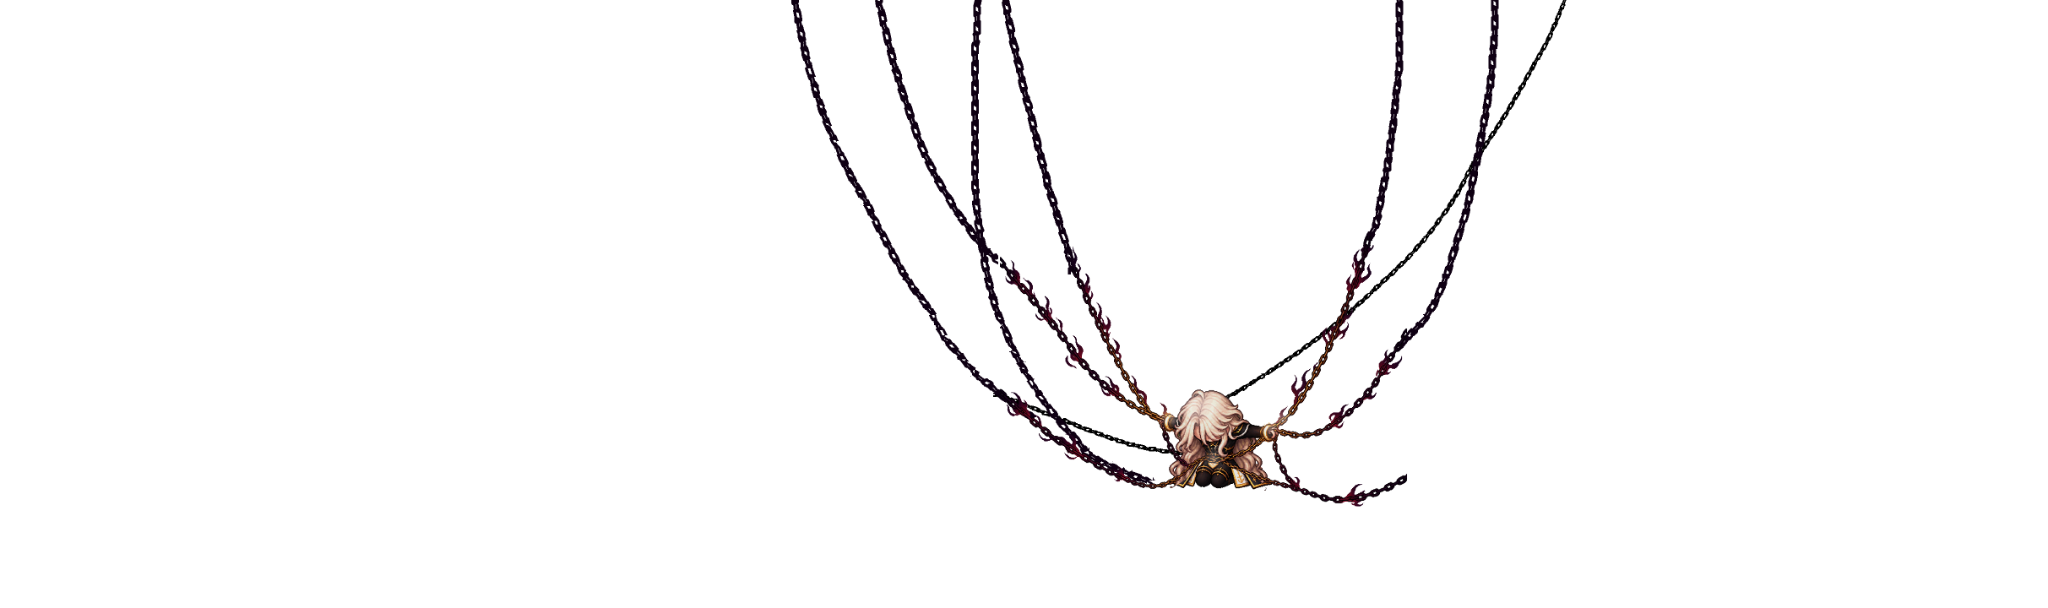
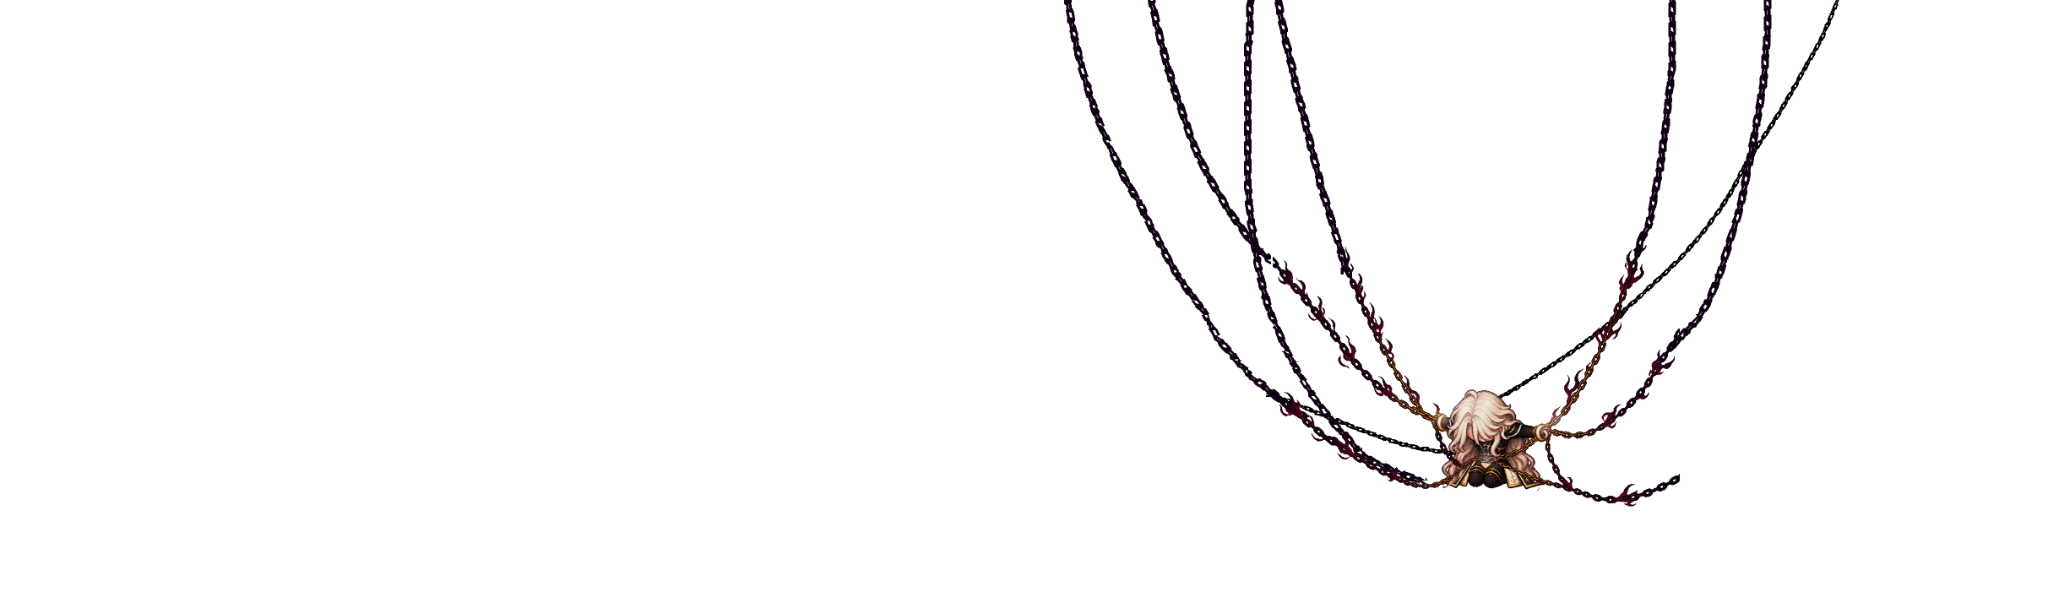
dungeon7 fix

Changed region(s): [[0.4062, 0.0, 0.875, 0.8438], [0.375, 0.0, 0.4375, 0.2188], [0.7188, 0.0, 0.75, 0.2812]]

diff --git a/src/components/Dungeon7RescueStory.tsx b/src/components/Dungeon7RescueStory.tsx
@@ -10,6 +10,20 @@ import aronStanding from "../assets/story/npcs/chapter2/aron/standing_R.png";
 
 const base = `${import.meta.env.BASE_URL}assets/dungeon7/`;
 const hitSfx = `${import.meta.env.BASE_URL}assets/audio/hit-sfx.mp3`;
+export const DUNGEON7_PRISON_PARTY_LAYOUT = {
+  displayScale: 0.5,
+  groundBottomPercent: 13,
+  initialLeftPercent: [8, 13, 18, 23],
+  relocatedLeftPercent: [39, 44, 49, 54],
+} as const;
+export type Dungeon7RescuePhase = "arrival" | "party" | "left" | "pan" | "center" | "hits" | "black" | "fallen";
+export function getDungeon7PartyVisibility(phase: Dungeon7RescuePhase) {
+  return {
+    initial: phase === "arrival" || phase === "party" || phase === "left" || phase === "pan",
+    relocated: phase === "center" || phase === "hits",
+  };
+}
+const partyStanding = [lunaStanding, theoStanding, kappStanding, aronStanding] as const;
 const actors = {
   luna: createChapter2Actor("luna", "루나", "정찰 담당", "#ff8b72"), theo: createChapter2Actor("theo", "테오", "보급 담당", "#7fc8ff"), aron: createChapter2Actor("aron", "아론", "지휘관", "#d9b6ff"), kapp: createChapter2Actor("kapp", "카프", "부지휘관", "#ffcf80"), deneb: createChapter2Actor("deneb", "데네브", "잊혀진 지휘관", "#bfe7ff"),
 };
@@ -27,7 +41,7 @@ const FALLEN = sequence("d7-rescue-fallen", [n("r28", "쇠사슬에서 해방된
 
 type Props = { playerName: string; onComplete: () => void };
 export function Dungeon7RescueStory({ playerName, onComplete }: Props) {
-  const [phase, setPhase] = useState<"arrival" | "party" | "left" | "pan" | "center" | "hits" | "black" | "fallen">("arrival");
+  const [phase, setPhase] = useState<Dungeon7RescuePhase>("arrival");
   const [hitStep, setHitStep] = useState(0); const done = useRef(false); const strikeBusy = useRef(false); const timers = useRef<number[]>([]);
   const finish = () => { if (done.current) return; done.current = true; timers.current.forEach(clearTimeout); onComplete(); };
   useEffect(() => { timers.current.push(window.setTimeout(() => setPhase("party"), 2000)); timers.current.push(window.setTimeout(() => setPhase("left"), 4500)); return () => timers.current.forEach(clearTimeout); }, []);
@@ -45,11 +59,12 @@ export function Dungeon7RescueStory({ playerName, onComplete }: Props) {
       }, 400));
     }
   };
-  const positions = phase === "arrival" || phase === "party" || phase === "left" ? ["8%", "15%", "22%", "29%"] : ["37%", "44%", "51%", "58%"];
+  const partyVisibility = getDungeon7PartyVisibility(phase);
   return <div className={`dungeon7-rescue phase-${phase} ${phase === "pan" || phase === "center" || phase === "hits" ? "is-centered" : ""}`}>
     <div className="dungeon7-prison-camera"><div className="dungeon7-prison-map">
       <img className="d7-layer d7-background" src={`${base}prison-background.png`} alt="" /><img className="d7-layer d7-foreground" src={`${base}prison-foreground.png`} alt="" /><img key={hitStep} className={`d7-layer d7-captive ${hitStep === 1 || hitStep === 3 || hitStep === 5 ? "is-hit" : ""}`} src={`${base}captive-deneb.png`} alt="붙잡힌 데네브" />
-      <div className="d7-party">{[lunaStanding,theoStanding,kappStanding,aronStanding].map((src,i)=><div className="d7-party-member" style={{ left: positions[i] }} key={src}><img src={src} alt="" />{i===0&&phase==="left"&&<span className="d7-exclamation" style={{ backgroundImage: `url(${import.meta.env.BASE_URL}assets/story/chapter2/intro/exclamation-sheet.png)` }} />}</div>)}</div>
+      {partyVisibility.initial && <div className="d7-party d7-party-initial">{partyStanding.map((src, i) => <div className="d7-party-member" style={{ left: `${DUNGEON7_PRISON_PARTY_LAYOUT.initialLeftPercent[i]}%` }} key={src}><img src={src} alt="" />{i === 0 && phase === "left" && <span className="d7-exclamation" style={{ backgroundImage: `url(${import.meta.env.BASE_URL}assets/story/chapter2/intro/exclamation-sheet.png)` }} />}</div>)}</div>}
+      {partyVisibility.relocated && <div className="d7-party d7-party-relocated">{partyStanding.map((src, i) => <div className="d7-party-member" style={{ left: `${DUNGEON7_PRISON_PARTY_LAYOUT.relocatedLeftPercent[i]}%` }} key={src}><img src={src} alt="" /></div>)}</div>}
       <img className="d7-layer d7-ground" src={`${base}prison-ground.png`} alt="" />
     </div></div>
     <button className="story-skip-button" onClick={finish}>건너뛰기</button>

diff --git a/src/dungeon7Chapter2Checks.ts b/src/dungeon7Chapter2Checks.ts
@@ -5,6 +5,9 @@ import { MONSTER_VISUAL_DEFINITIONS } from "./game/monster/monsterDefinitions";
 import { ITEM_DEFINITION_REGISTRY } from "./game/inventory/itemDefinitions";
 import { createDebugFloorJumpState } from "./debug/debugFloorJump";
 import { getItemQuantity } from "./game/inventory/inventoryState";
+import { DUNGEON_FLOOR_TITLES } from "./data/DungeonFloorTitles";
+import { FLOOR_DEFINITIONS } from "./game/floor/floorDefinitions";
+import { DUNGEON7_PRISON_PARTY_LAYOUT, getDungeon7PartyVisibility } from "./components/Dungeon7RescueStory";
 
 function check(condition: unknown, message: string): asserts condition { if (!condition) throw new Error(`[Dungeon7 check] ${message}`); }
 const dialogue = (story: { scenes: ReadonlyArray<{ steps: ReadonlyArray<{ type: string }> }> }) => story.scenes.flatMap((scene) => scene.steps).filter((step) => step.type === "dialogue");
@@ -12,6 +15,8 @@ const dialogue = (story: { scenes: ReadonlyArray<{ steps: ReadonlyArray<{ type: 
 export function runDungeon7Chapter2Checks() {
   const quest = QUEST_DEFINITIONS.find((entry) => entry.id === "quest-floor-7-goryeo-founding");
   check(quest?.title === "개항 전후의 조선(1)", "title");
+  check(FLOOR_DEFINITIONS.find((floor) => floor.id === "floor-7")?.title === "7층", "floor 7 entrance label");
+  check(DUNGEON_FLOOR_TITLES.find((floor) => floor.floorId === "floor-7")?.subtitle === "개항 전후의 조선(1)", "floor 7 internal title");
   check(quest.giverNpcId === "kaiden" && quest.turnInNpcId === "denebCommander", "giver and turn-in");
   check(NPC_BY_ID.denebCommander.baseCampDisplayRole === "잊혀진 지휘관", "Deneb NPC definition");
   check(DUNGEON7_ENTRY_STORY.dialogueSkip && dialogue(DUNGEON7_ENTRY_STORY).length === 5, "entry story");
@@ -24,4 +29,10 @@ export function runDungeon7Chapter2Checks() {
   const debug8 = createDebugFloorJumpState("floor-8");
   check(getItemQuantity(debug8.inventoryState, "accessory-gungye-eyepatch") === 1, "Dungeon8 debug rare reward");
   check(Boolean(debug8.achievementReceived["achievement-floor-7-rare-reward"]), "Dungeon8 debug achievement");
+  check(DUNGEON7_PRISON_PARTY_LAYOUT.displayScale === 0.5, "prison party scale");
+  check(DUNGEON7_PRISON_PARTY_LAYOUT.initialLeftPercent.join(",") === "8,13,18,23", "initial party world positions");
+  check(DUNGEON7_PRISON_PARTY_LAYOUT.relocatedLeftPercent.join(",") === "39,44,49,54", "relocated party order and positions");
+  check(Math.max(...DUNGEON7_PRISON_PARTY_LAYOUT.relocatedLeftPercent) < 58, "relocated party remains left of captive Deneb");
+  check(getDungeon7PartyVisibility("pan").initial && !getDungeon7PartyVisibility("pan").relocated, "camera pan keeps only the initial world party");
+  check(!getDungeon7PartyVisibility("center").initial && getDungeon7PartyVisibility("center").relocated, "camera completion swaps to only the relocated party");
 }

diff --git a/src/game/npc/npcChecks.ts b/src/game/npc/npcChecks.ts
@@ -9,6 +9,7 @@ import { resolveNpcStorySequence } from "./npcStoryResolver";
 import type { NpcId } from "./npcTypes";
 import {
   BASE_CAMP_NPC_DISPLAY_SCALE,
+  BASE_CAMP_REDUCED_NPC_DISPLAY_SCALE,
   BASE_CAMP_NPC_SLOT_ASSIGNMENTS,
   BASE_CAMP_NPC_SLOTS,
   getBaseCampNpcFocusTarget,
@@ -58,7 +59,7 @@ export function runNpcChecks() {
     const slot = BASE_CAMP_NPC_SLOTS[npc.baseCampSpawnId as BaseCampNpcSlotId];
     const expectedSize = npc.id === "luna" || npc.id === "theo"
       ? { width: 114, height: 180 }
-      : { width: 120, height: 210 };
+      : { width: 84, height: 147 };
     assert(
       npc.placement.width === expectedSize.width &&
         npc.placement.height === expectedSize.height,
@@ -231,15 +232,37 @@ export function runNpcChecks() {
       getBaseCampNpcPlacement("lunaNpc").y === 602 &&
       getBaseCampNpcPlacement("theoNpc").x === 498 &&
       getBaseCampNpcPlacement("theoNpc").y === 602 &&
-      getBaseCampNpcPlacement("kaidenNpc").x === 1110 &&
-      getBaseCampNpcPlacement("kaidenNpc").y === 572 &&
-      getBaseCampNpcPlacement("jeonNpc").x === 1375 &&
-      getBaseCampNpcPlacement("jeonNpc").y === 572,
+      getBaseCampNpcPlacement("kaidenNpc").x === 1128 &&
+      getBaseCampNpcPlacement("kaidenNpc").y === 635 &&
+      getBaseCampNpcPlacement("jeonNpc").x === 1393 &&
+      getBaseCampNpcPlacement("jeonNpc").y === 635 &&
+      getBaseCampNpcPlacement("denebCommanderNpc").x === 988 &&
+      getBaseCampNpcPlacement("denebCommanderNpc").y === 635,
     "chapter 2 BaseCamp placement coordinates changed",
   );
   assert(
     BASE_CAMP_NPC_DISPLAY_SCALE === 0.3,
     "common NPC source-image display scale must be 0.3",
+  );
+  assert(
+    BASE_CAMP_REDUCED_NPC_DISPLAY_SCALE === 0.21,
+    "Aron, Kapp, and Deneb must render at 70 percent of their previous BaseCamp size",
+  );
+  assert(
+    NPC_BY_ID.luna.placement.width === 114 &&
+      NPC_BY_ID.theo.placement.width === 114 &&
+      NPC_BY_ID.kaiden.placement.width === 84 &&
+      NPC_BY_ID.jeon.placement.width === 84 &&
+      NPC_BY_ID.denebCommander.placement.width === 84,
+    "only Aron, Kapp, and Deneb must use the reduced BaseCamp scale",
+  );
+  assert(
+    NPC_BY_ID.denebCommander.idle.blinkFrameCount === 7 &&
+      NPC_BY_ID.denebCommander.idle.blinkFrameWidth === 400 &&
+      NPC_BY_ID.denebCommander.idle.blinkFrameHeight === 700 &&
+      NPC_BY_ID.denebCommander.idle.sourceSheetWidth === 2048 &&
+      NPC_BY_ID.denebCommander.idle.sourceSheetHeight === 512,
+    "Deneb blink must use all seven verified frames on the 2048 by 512 sheet",
   );
   assert(
     BASE_CAMP_NPC_SLOT_ASSIGNMENTS.luna === "lunaNpc",

diff --git a/src/styles.css b/src/styles.css
@@ -2594,10 +2594,12 @@ button:focus-visible {
 .dungeon7-rescue.is-centered .dungeon7-prison-map { transform: translate3d(calc(50vw - 50%),-50%,0); }
 .d7-layer { position: absolute; inset: 0; width: 100%; height: 100%; object-fit: fill; pointer-events: none; }
 .d7-background { z-index: 1; } .d7-foreground { z-index: 2; } .d7-captive { z-index: 3; } .d7-party { position: absolute; inset: 0; z-index: 4; } .d7-ground { z-index: 5; }
-.d7-party-member { position: absolute; bottom: 13%; width: 9%; height: 48%; transform: translateX(-50%); transition: left 1.8s ease-in-out, opacity .5s; }
+.d7-party-member { position: absolute; bottom: 13%; width: 4.5%; height: 24%; transform: translateX(-50%); transition: opacity .5s; }
 .dungeon7-rescue.phase-arrival .d7-party-member { opacity: 0; }
+.d7-party-relocated .d7-party-member { animation: d7-party-relocated-fade .5s ease-out both; }
+@keyframes d7-party-relocated-fade { from { opacity: 0; } to { opacity: 1; } }
 .d7-party-member img { width: 100%; height: 100%; object-fit: contain; object-position: center bottom; }
-.d7-exclamation { position: absolute; left: 50%; top: -42px; width: 60px; height: 60px; transform: translateX(-50%); background-position: 0 0; background-size: 1200% 100%; background-repeat: no-repeat; image-rendering: pixelated; animation: d7-exclamation 1.715s steps(12) 1 forwards; }
+.d7-exclamation { position: absolute; left: 50%; top: -30px; width: 60px; height: 60px; transform: translateX(-50%); background-position: 0 0; background-size: 1200% 100%; background-repeat: no-repeat; image-rendering: pixelated; animation: d7-exclamation 1.715s steps(12) 1 forwards; }
 @keyframes d7-exclamation { to { background-position-x: -720px; visibility: hidden; } }
 .d7-captive.is-hit { animation: d7-captive-hit .28s linear; }
 @keyframes d7-captive-hit { 0%,100% { transform: translateX(0); } 25% { transform: translateX(-14px); } 75% { transform: translateX(14px); } }

diff --git a/src/game/npc/baseCampNpcSlots.ts b/src/game/npc/baseCampNpcSlots.ts
@@ -1,4 +1,5 @@
 export const BASE_CAMP_NPC_DISPLAY_SCALE = 0.3;
+export const BASE_CAMP_REDUCED_NPC_DISPLAY_SCALE = BASE_CAMP_NPC_DISPLAY_SCALE * 0.7;
 
 export const BASE_CAMP_NPC_SLOT_IDS = {
   lunaOriginal: "lunaNpc",
@@ -74,10 +75,19 @@ export const BASE_CAMP_NPC_SLOT_ASSIGNMENTS = {
   denebCommander: BASE_CAMP_NPC_SLOT_IDS.denebCommander,
 } as const;
 
+export function getBaseCampNpcDisplayScale(slotId: BaseCampNpcSlotId) {
+  return slotId === BASE_CAMP_NPC_SLOT_IDS.kaidenOriginal ||
+    slotId === BASE_CAMP_NPC_SLOT_IDS.jeon ||
+    slotId === BASE_CAMP_NPC_SLOT_IDS.denebCommander
+    ? BASE_CAMP_REDUCED_NPC_DISPLAY_SCALE
+    : BASE_CAMP_NPC_DISPLAY_SCALE;
+}
+
 export function getBaseCampNpcPlacement(slotId: BaseCampNpcSlotId) {
   const slot = BASE_CAMP_NPC_SLOTS[slotId];
-  const width = slot.baseWidth * BASE_CAMP_NPC_DISPLAY_SCALE;
-  const height = slot.baseHeight * BASE_CAMP_NPC_DISPLAY_SCALE;
+  const displayScale = getBaseCampNpcDisplayScale(slotId);
+  const width = slot.baseWidth * displayScale;
+  const height = slot.baseHeight * displayScale;
   const anchorY = slot.groundY;
 
   return {

diff --git a/src/game/floor/floorDefinitions.ts b/src/game/floor/floorDefinitions.ts
@@ -31,7 +31,7 @@ export const FLOOR_DEFINITIONS: readonly FloorDefinition[] = [
   },
   { id: "floor-5", order: 5, title: "5층", questId: "quest-floor-5-unified-silla", questionCount: 10 },
   { id: "floor-6", order: 6, title: "6층", questId: "quest-floor-6-balhae", questionCount: 10 },
-  { id: "floor-7", order: 7, title: "개항 전후의 조선(1)", questId: "quest-floor-7-goryeo-founding", questionCount: 10 },
+  { id: "floor-7", order: 7, title: "7층", questId: "quest-floor-7-goryeo-founding", questionCount: 10 },
   { id: "floor-8", order: 8, title: "8층", questId: "quest-floor-8-goryeo-relations", questionCount: 10 },
   { id: "floor-9", order: 9, title: "9층", questId: "quest-floor-9-goryeo-society-culture", questionCount: 10 },
   { id: "floor-10", order: 10, title: "10층", questId: "quest-floor-10-final-source", questionCount: 0 },

diff --git a/src/data/DungeonFloorTitles.ts b/src/data/DungeonFloorTitles.ts
@@ -32,7 +32,7 @@ export const DUNGEON_FLOOR_TITLES: DungeonFloorTitle[] = [
   },
   { floor: 5, floorId: "floor-5", title: "던전 5층", subtitle: "조선후기 개혁정치" },
   { floor: 6, floorId: "floor-6", title: "던전 6층", subtitle: "조선후기의 서민문화" },
-  { floor: 7, floorId: "floor-7", title: "던전 7층", subtitle: "후삼국 시대와 고려 건국" },
+  { floor: 7, floorId: "floor-7", title: "던전 7층", subtitle: "개항 전후의 조선(1)" },
   { floor: 8, floorId: "floor-8", title: "던전 8층", subtitle: "고려와 주변 국가의 관계" },
   { floor: 9, floorId: "floor-9", title: "던전 9층", subtitle: "고려시대의 사회와 문화" },
   { floor: 10, floorId: "floor-10", title: "던전 10층", subtitle: "????" },

diff --git a/src/game/npc/npcDefinitions.ts b/src/game/npc/npcDefinitions.ts
@@ -117,7 +117,7 @@ export const NPC_DEFINITIONS: readonly NpcDefinition[] = [
       ...commonIdle,
       standingImage: `${import.meta.env.BASE_URL}assets/npcs/chapter2/deneb/standing_R.png`,
       blinkSpriteSheet: `${import.meta.env.BASE_URL}assets/npcs/chapter2/deneb/blink_R.png`,
-      blinkFrameCount: 5,
+      blinkFrameCount: 7,
       blinkFrameWidth: 400,
       blinkFrameHeight: 700,
       sourceSheetWidth: 2048,
